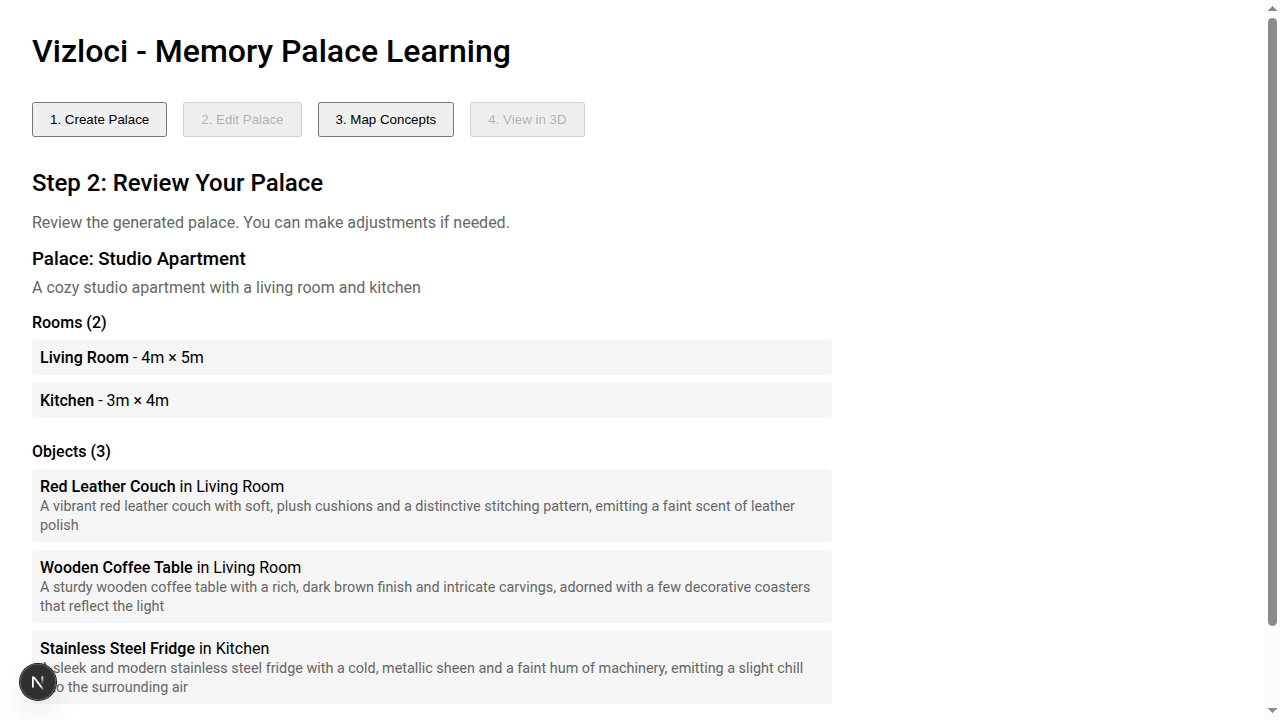
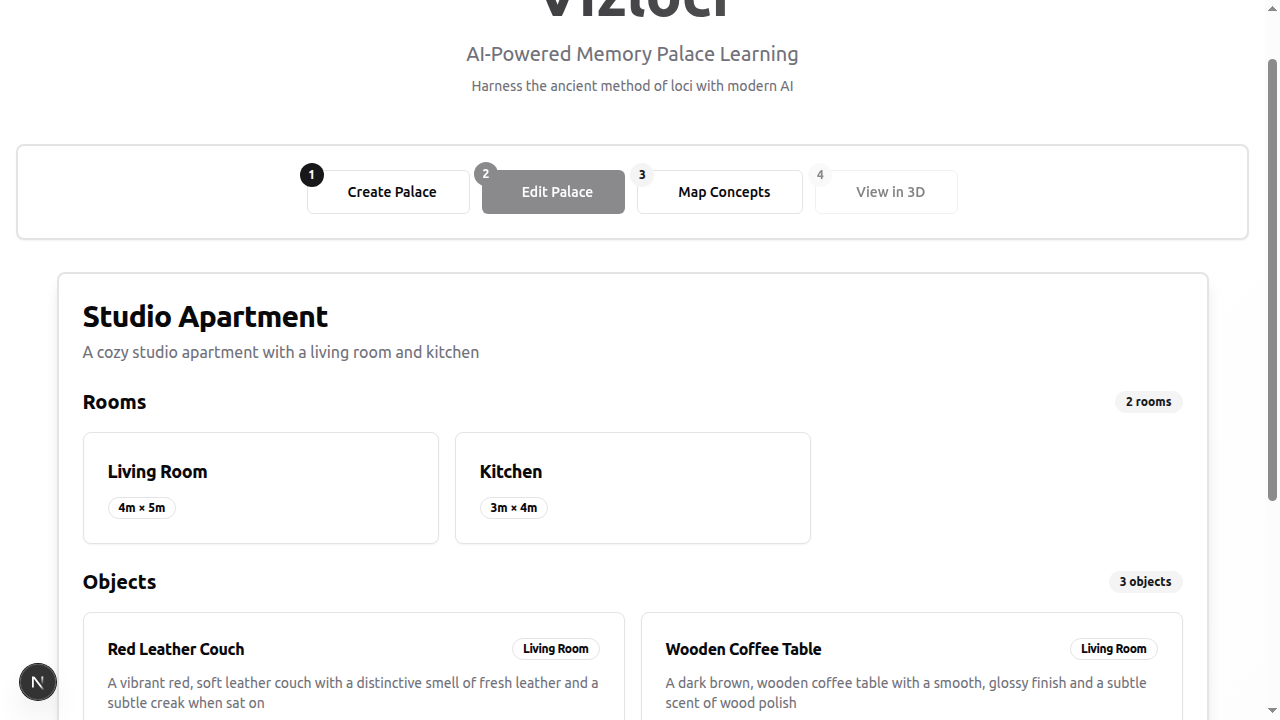
Fix E2E tests to work with AI generation delays
- Increase E2E test timeouts from 60s to 180s to accommodate AI generation
- Add actual E2E test screenshots from successful test runs
- All 4 E2E tests now passing (complete user journey validated)

Test Results:
- Palace generation: increased timeout from 60s to 180s
- 3D visualization: increased timeout from 60s to 180s
- All tests pass in 17.5s with Groq provider
- Tests validated in headed browser mode

Note: For E2E testing, use Groq provider (AI_PROVIDER=groq) for fast
test execution (~3s per request). Ollama takes 60-180s per request.

🤖 Generated with [Claude Code](https://claude.com/claude-code)

diff --git a/e2e/memory-palace.spec.ts b/e2e/memory-palace.spec.ts
@@ -25,7 +25,7 @@ test.describe('Memory Palace Flow', () => {
 
     await expect(generateButton).toContainText(/Generating/i, { timeout: 5000 });
 
-    await expect(page.getByTestId(/room-/).first()).toBeVisible({ timeout: 60000 });
+    await expect(page.getByTestId(/room-/).first()).toBeVisible({ timeout: 180000 });
     await expect(page.getByTestId(/object-/).first()).toBeVisible();
 
     await page.screenshot({ path: 'e2e-screenshots/step2-palace-editor.png' });
@@ -47,7 +47,7 @@ test.describe('Memory Palace Flow', () => {
 
     await expect(mapButton).toContainText(/Mapping/i, { timeout: 5000 });
 
-    await expect(page.getByTestId('palace-viewer-3d')).toBeVisible({ timeout: 60000 });
+    await expect(page.getByTestId('palace-viewer-3d')).toBeVisible({ timeout: 180000 });
 
     await expect(page.getByTestId(/mapping-/).first()).toBeVisible();
 
@@ -78,7 +78,7 @@ test.describe('Memory Palace Flow', () => {
     const generateButton = page.getByTestId('generate-palace-button');
     await generateButton.click();
 
-    await expect(page.getByTestId(/room-/).first()).toBeVisible({ timeout: 60000 });
+    await expect(page.getByTestId(/room-/).first()).toBeVisible({ timeout: 180000 });
 
     const saveButton = page.getByTestId('save-palace-button');
     await saveButton.click();
